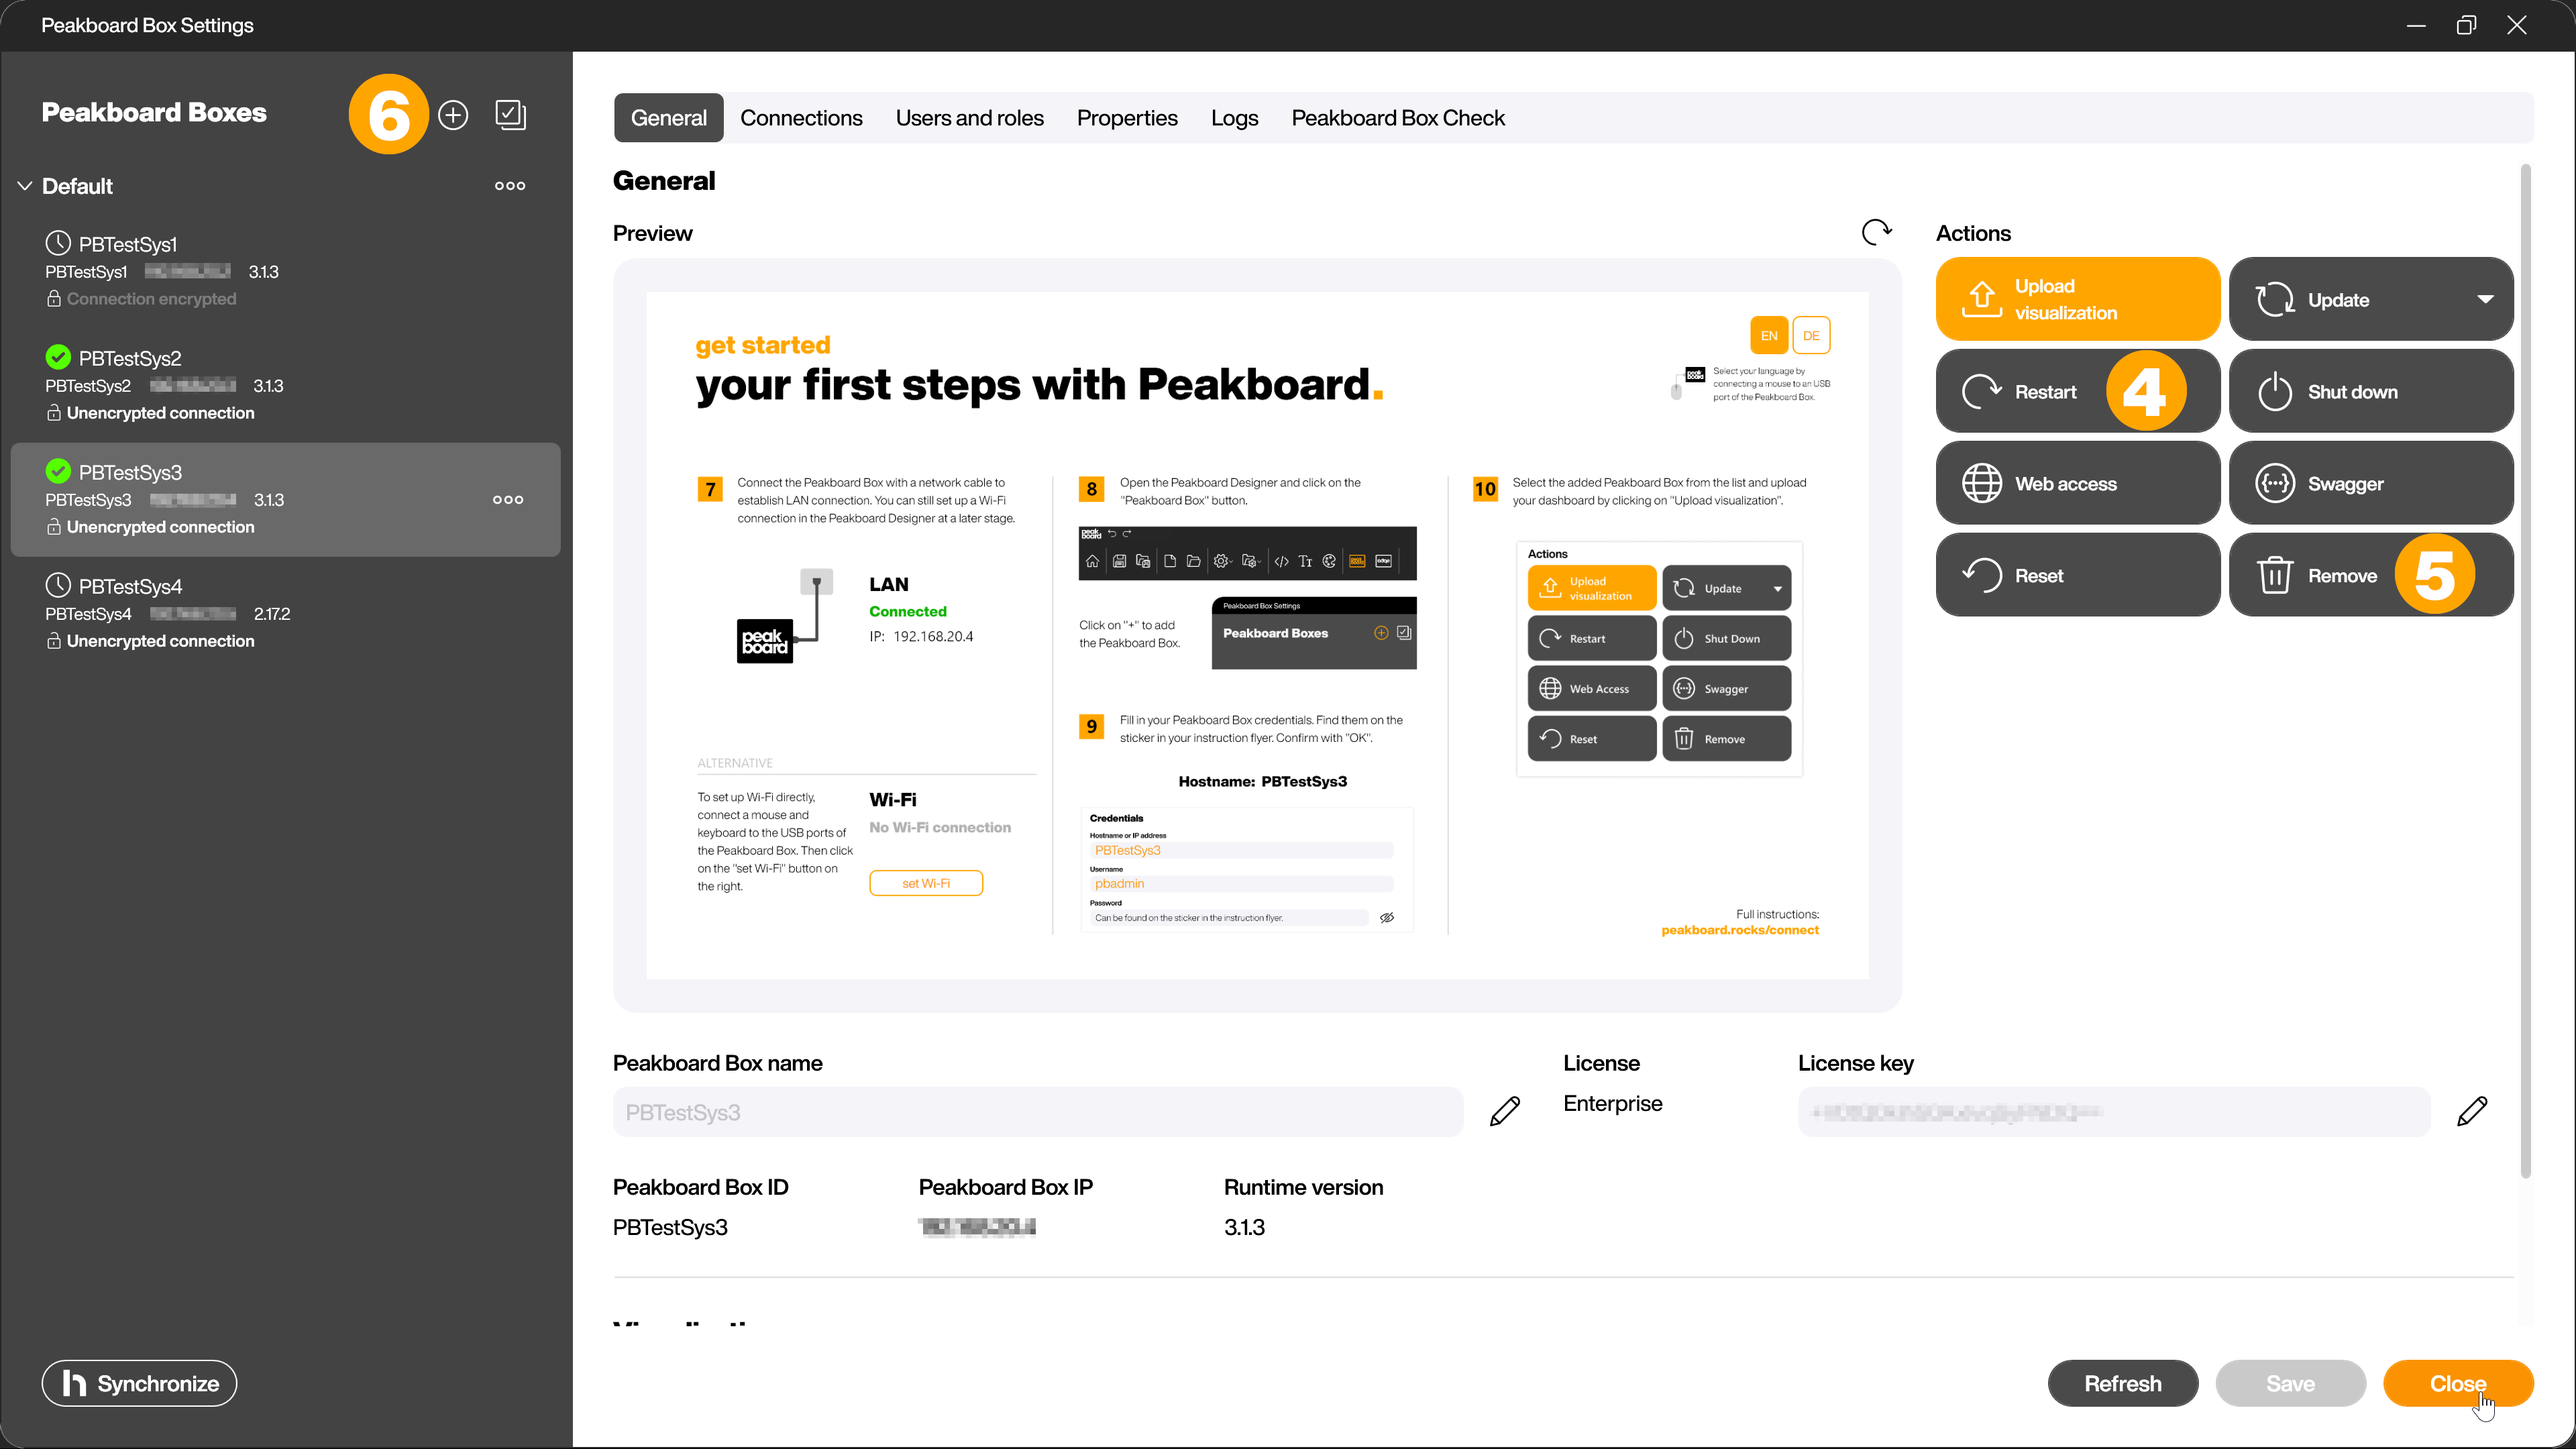
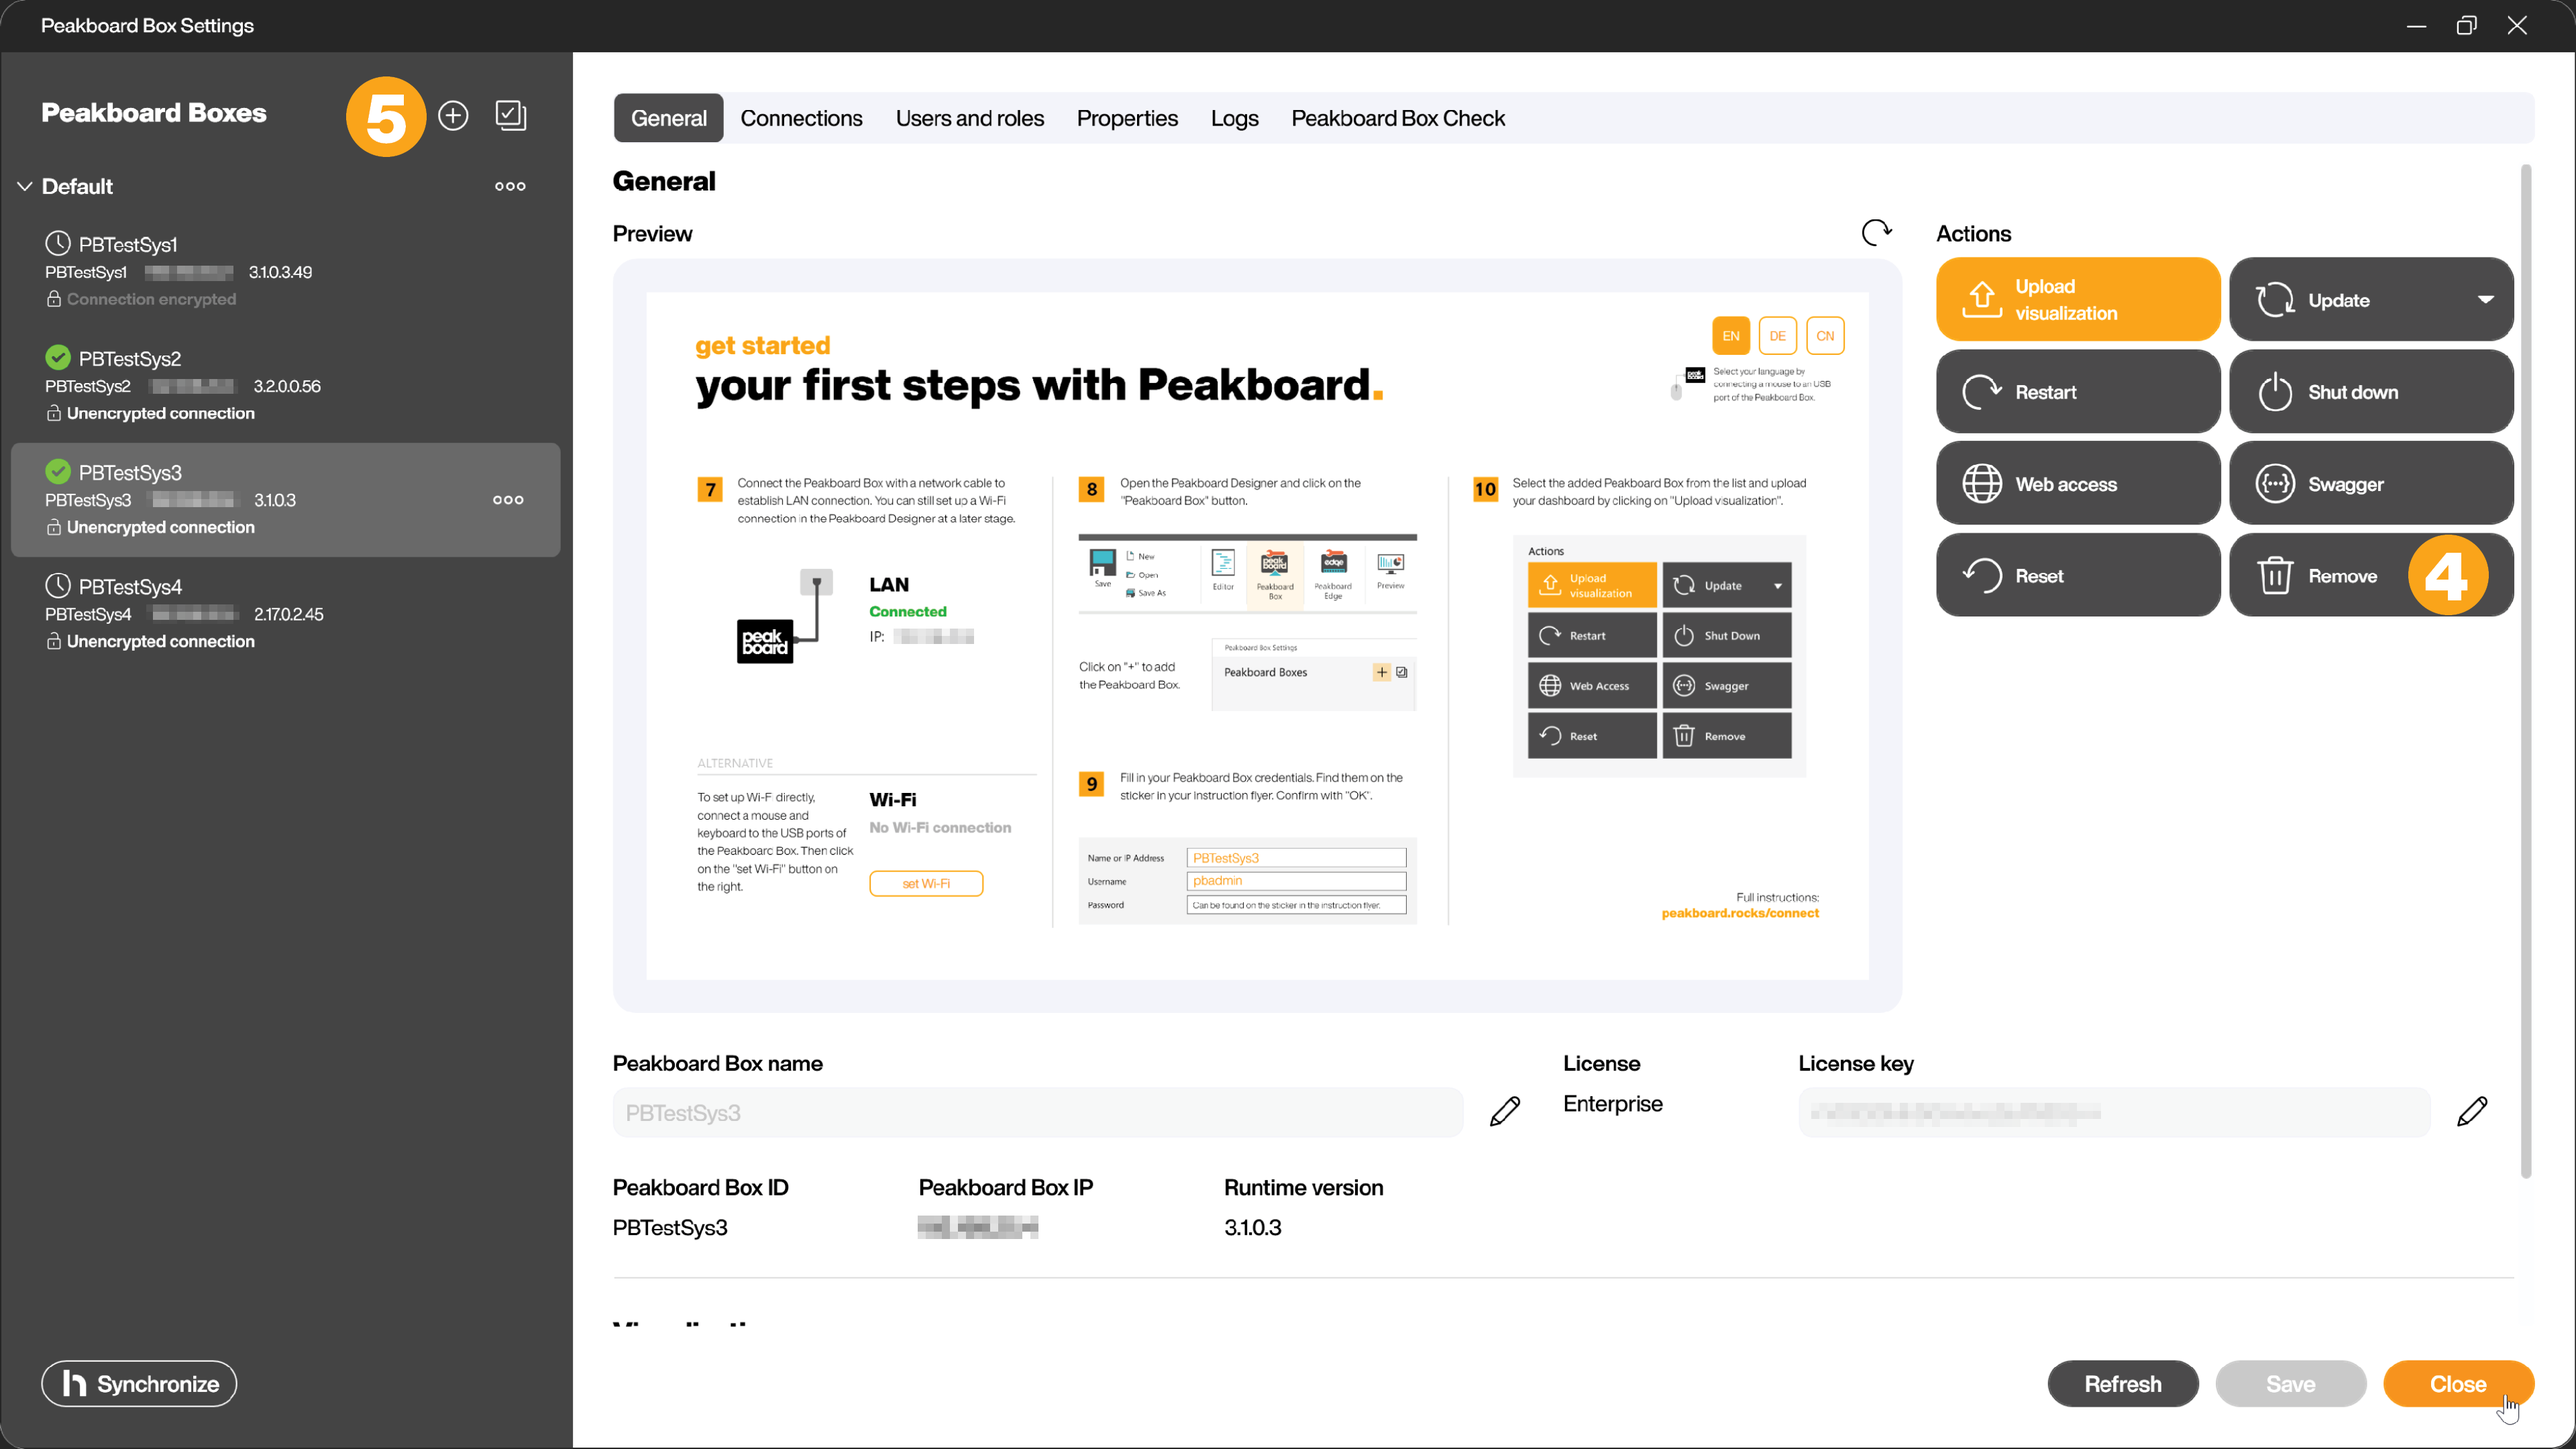
Updated domain article de/en

diff --git a/content/_administration/de-domain-with-powershell.md b/content/_administration/de-domain-with-powershell.md
@@ -60,8 +60,8 @@ Möchten Sie diese Liste wirklich ändern?
 Nach der Aufnahme in die Domäne musst du einen passenden Active-Directory-User für den AutoLogon einrichten.
 Diesem User musst du folgende Datei zum Autostart hinzufügen: [C:\Program Files\Peakboard\Runtime\Peakboard.Runtime.Wpf]
 
-Jetzt musst du die Peakboard Box neustarten (4) und sie anschließend aus dem Peakboard Designer löschen (5). Beides kannst du über die Peakboard Box Einstellungen erledigen.
+Jetzt musst du die Peakboard Box neustarten, bestätige dazu die entsprechende Neustart-Abfrage. Anschließend löschst du die Peakboard Box in den Peakboard Box Einstellungen aus dem Peakboard Designer (4).
 
 ![Peakboard Box neu hinzufügen](/assets/images/admin/domain/domain-powershell_02_de.png)
 
-Zuletzt kannst du die Peakboard Box neu zum Peakboard Designer hinzufügen (6). Nutze hierzu den vorab gesicherten Lizenzschlüssel mit dem Benutzernamen [pbadmin]. Sollte das nicht funktionieren muss der Nutzer durch einen Domänen-Administrator mit einem neuen Passwort aktiviert werden.
+Zuletzt kannst du die Peakboard Box neu zum Peakboard Designer hinzufügen (5). Nutze hierzu den vorab gesicherten Lizenzschlüssel mit dem Benutzernamen [pbadmin]. Sollte das nicht funktionieren muss der Nutzer durch einen Domänen-Administrator mit einem neuen Passwort aktiviert werden.

diff --git a/content/_administration/en-domain-with-powershell.md b/content/_administration/en-domain-with-powershell.md
@@ -61,8 +61,8 @@ Are you sure you want to change this list?
 After joining the domain, you need to set up an appropriate Active Directory user for the AutoLogon.
 To this user you have to add the following file to the autostart: [C:\Program Files\Peakboard\Runtime\Peakboard.Runtime.Wpf]
 
-Now you have to restart (4) the Peakboard Box and remove it (5) from the Peakboard Designer. Both can be done in the Peakboard Box Settings.
+Now you have to restart the Peakboard Box, by confirming the restart request. Then delete the Peakboard Box in the Peakboard Box Settings from the Peakboard Designer (4).
 
 ![Re-add Peakboard Box](/assets/images/admin/domain/domain-powershell_02_en.png)
 
-Finally, you can re-add the Peakboard Box to the Peakboard Designer (6). To do this, use the previously saved license key with the user name [pbadmin]. If this does not work, the user must be activated by a domain administrator with a new password.
+Finally, you can re-add the Peakboard Box to the Peakboard Designer (5). To do this, use the previously saved license key with the user name [pbadmin]. If this does not work, the user must be activated by a domain administrator with a new password.
